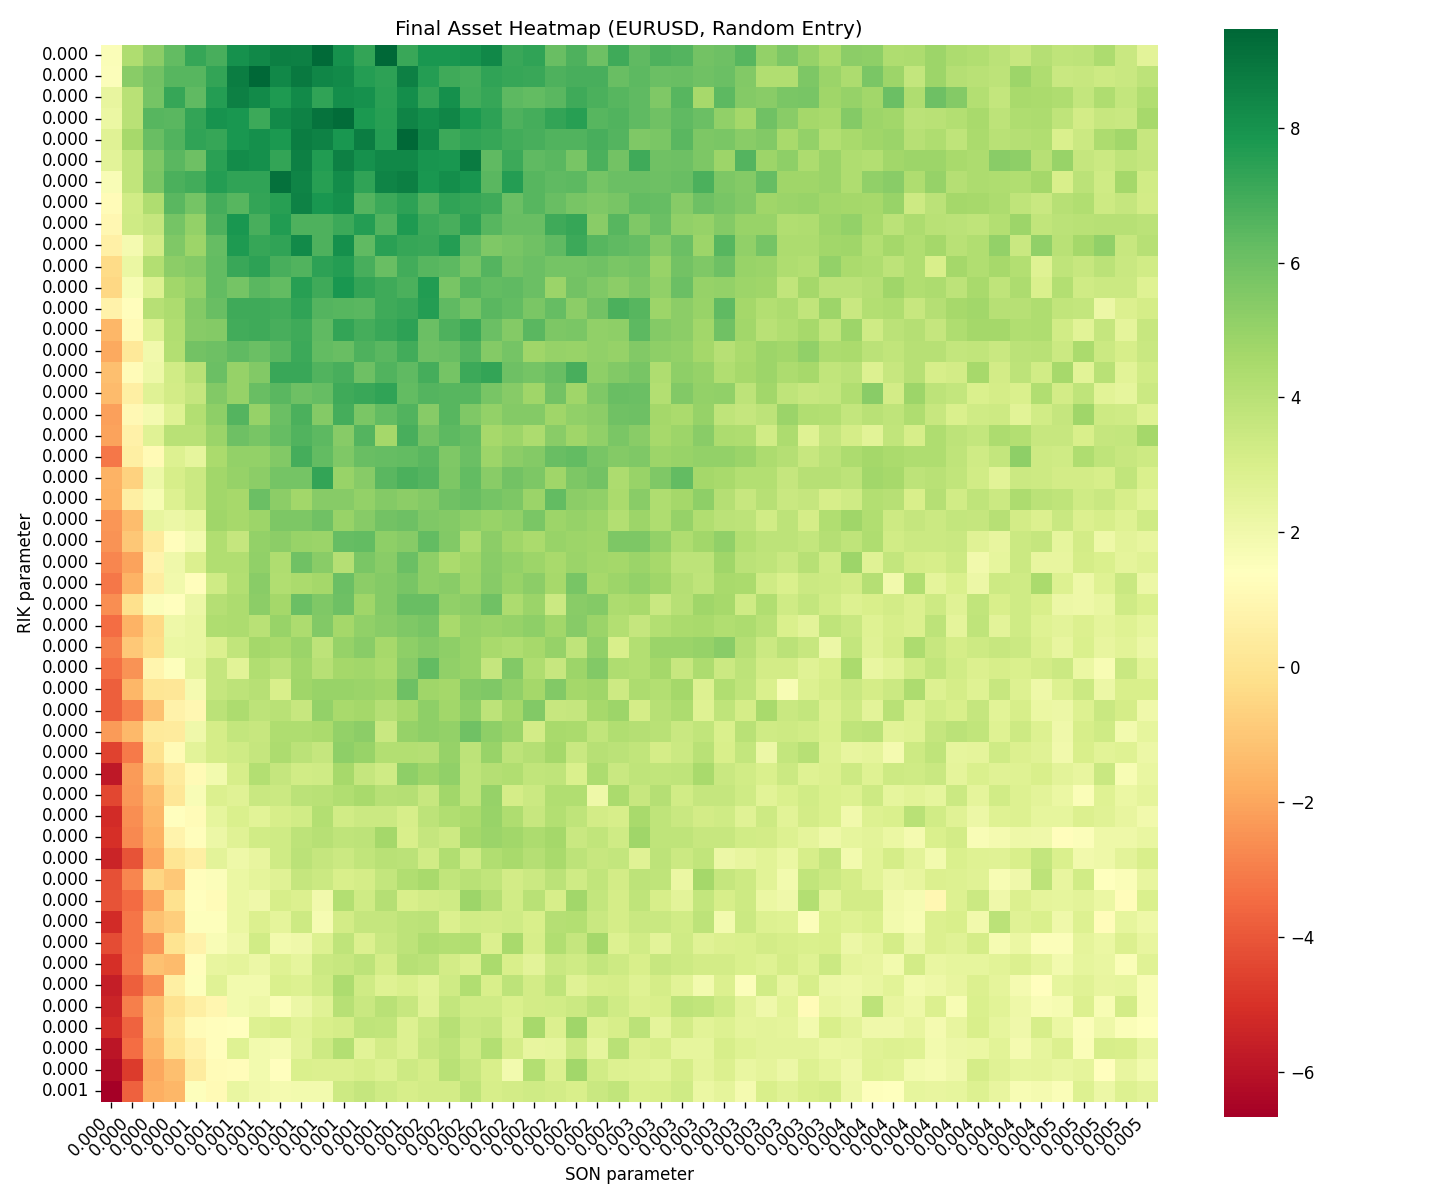
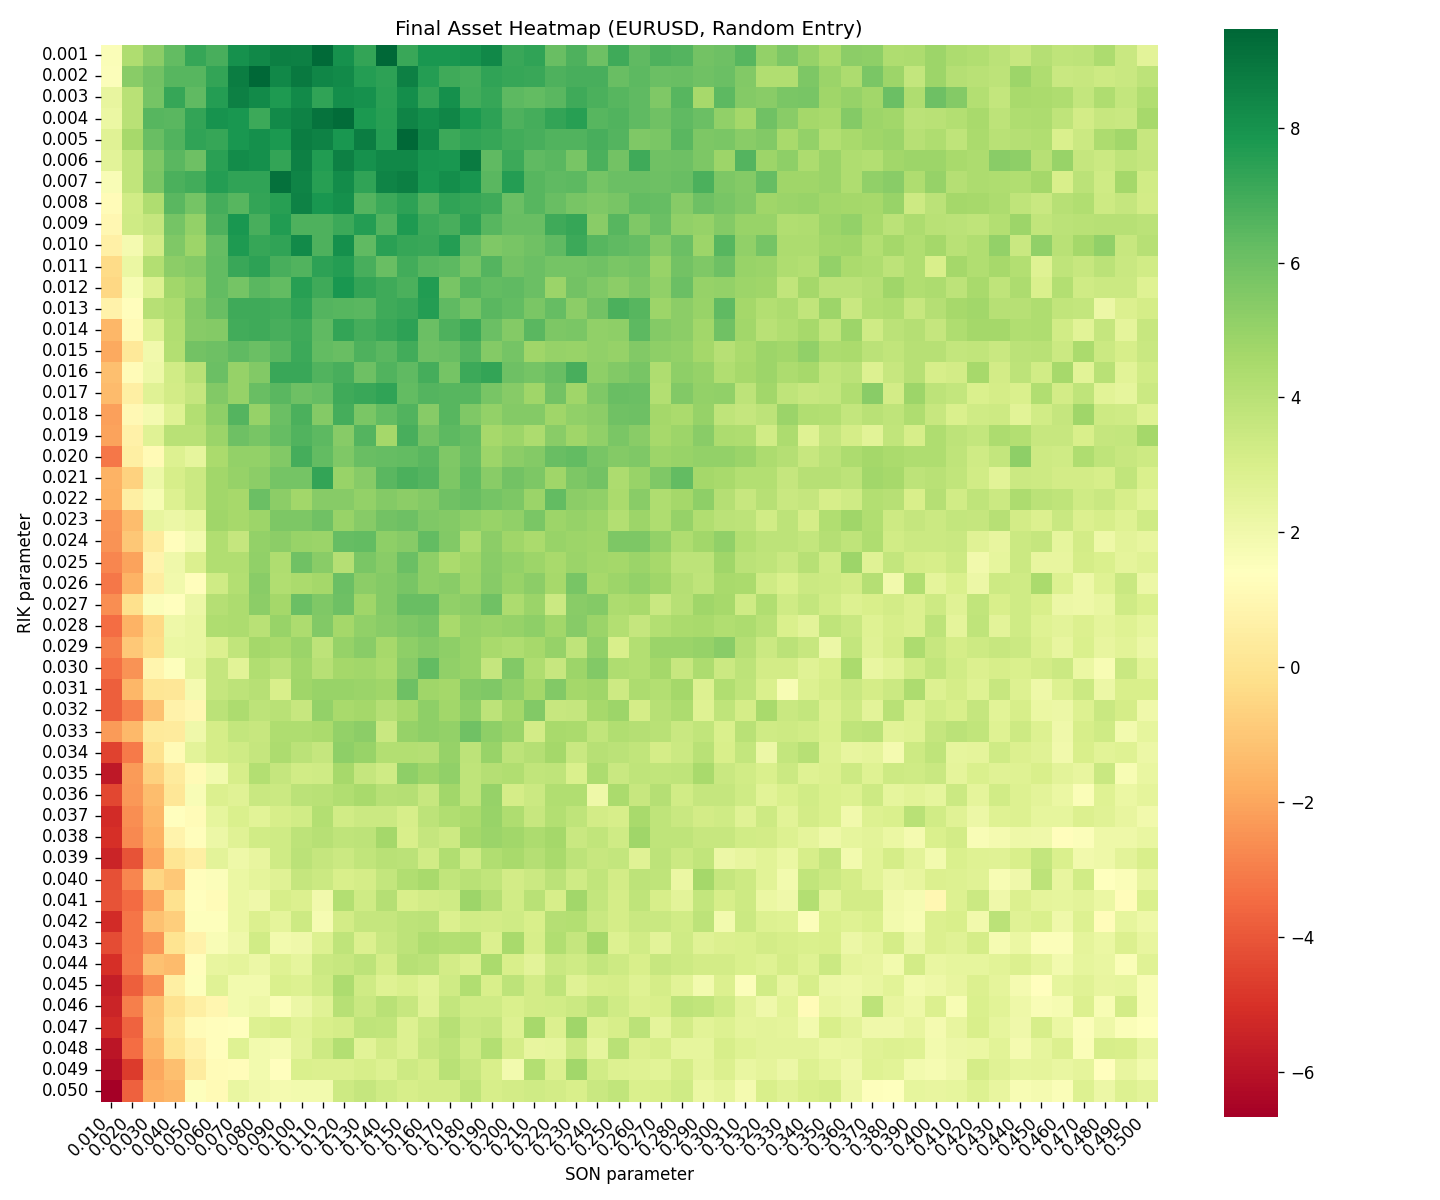
AIモデルシミュレーション実行。たぶん30_10, 0.004/100. 0.13/100 がよい

Changed region(s): [[0.0625, 0.925, 0.7812, 0.9558], [0.0312, 0.2158, 0.0625, 0.925]]

diff --git a/simulate_with_ai.py b/simulate_with_ai.py
@@ -1,6 +1,6 @@
 # simulate_with_ai.py
 """
-AIモデル（weightsファイル）を用いてエントリー方向を決定し、
+AIモデル(weightsファイル)を用いてエントリー方向を決定し、
 利確/損切り (rik, son) を指定してシミュレーションを行うスクリプト。
 
 全ステップでポジションを判定し、資産を更新し、ステップごとにログを保存。
@@ -16,10 +16,15 @@ import argparse
 import os
 import csv
 import numpy as np
-import pandas as pd
 import tensorflow as tf
 from modules.data_loader import load_csv_data
 from modules.models import build_simple_affine_model  # 例としてAffineモデル構造を使用
+
+# 必要な分だけGPUメモリを確保する
+gpus = tf.config.list_physical_devices('GPU')
+if gpus:
+    for gpu in gpus:
+        tf.config.experimental.set_memory_growth(gpu, True)
 
 
 def main():
@@ -76,7 +81,7 @@ def main():
 
     for step_i, price in enumerate(prices_arr):
         # 進捗をprint (例: 10000ステップあるうち毎1000ステップで状況を表示)
-        if step_i % 100000 == 0:
+        if step_i % 10000 == 0:
             print(
                 f"  Step {step_i}/{len(prices_arr)} ... Current asset={asset:.4f}")
 
@@ -101,11 +106,20 @@ def main():
 
         # pos=0 かつ price_bufferが十分たまっていれば、AI判定でエントリー
         if pos == 0 and len(price_buffer) == k:
-            # モデルの入力は (1, k) 形状
-            data_in = np.array(price_buffer, dtype=np.float32).reshape(1, k)
+            # ---- ここでMin-Max正規化を行う ----
+            buffer_array = np.array(price_buffer, dtype=np.float32)
+            min_val = buffer_array.min()
+            max_val = buffer_array.max()
+
+            scaled_array = (buffer_array - min_val) / \
+                (max_val - min_val + 1e-8)
+
+            # モデルの入力は (1, k) 形
+            data_in = scaled_array.reshape(1, k)
             pred = model(data_in, training=False).numpy()  # shape=(1,2)
+
             # pred[0,0] => "上がる"の確率, pred[0,1] => "下がる"の確率
-            if pred[0, 0] > pred[0, 1]:
+            if pred[0][0] > 0.5:
                 pos = 1
             else:
                 pos = -1
@@ -121,7 +135,7 @@ def main():
     # 4) ログの書き込み
     out_dir = f"simulator_results/{pair}_AI_logs"
     os.makedirs(out_dir, exist_ok=True)
-    log_name = f"log_ai_k{k}_rik{rik:.4f}_son{son:.4f}.csv"
+    log_name = f"log_ai_k{k}_rik{rik:.6f}_son{son:.6f}.csv"
     log_path = os.path.join(out_dir, log_name)
     print(f"[INFO] Saving step-by-step asset log to {log_path}")
 

diff --git a/simulate.py b/simulate.py
@@ -46,9 +46,9 @@ def main(pair):
     # 軸ラベルをパラメータ値に
     ax.set_xticks(np.arange(len(son_values)) + 0.5)
     ax.set_yticks(np.arange(len(rik_values)) + 0.5)
-    ax.set_xticklabels([f"{v:.3f}" for v in son_values],
+    ax.set_xticklabels([f"{v*100:.3f}" for v in son_values],
                        rotation=45, ha="right")
-    ax.set_yticklabels([f"{v:.3f}" for v in rik_values], rotation=0)
+    ax.set_yticklabels([f"{v*100:.3f}" for v in rik_values], rotation=0)
 
     heatmap_path = f"simulator_results/{pair}/heatmap_{pair}.png"
     plt.tight_layout()

diff --git a/README.md b/README.md
@@ -1,144 +1,71 @@
 # liza_trainer
 
-為替の1分足CSVデータを用いて、以下の2つを行うプロジェクトです:
+為替の1分足CSVデータを用いて、以下の作業を行うプロジェクトです:
 
-1. **学習 (train.py)**  
-   過去の価格から、指定した先の価格が上昇か下降かを推定する2値分類モデルを学習する。  
-   バリデーションロスが改善しなければ一部重みをランダム初期化して局所解を回避し、一定エポック改善しなければ早期終了する仕組みを備えている。  
-   学習完了後は `results/<通貨ペア>/<モデル名>_<日時>/best_model_weights.h5` に最良モデルが保存される。
+## 1. 学習 (train.py)
 
-2. **シミュレーション (simulate.py)**  
-   ランダムエントリーと利確・損切り(複数パラメータ)のバックテストシミュレーションを並列で行う。  
-   最終資産をヒートマップにまとめ、 `simulator_results/<通貨ペア>/heatmap_<通貨ペア>.png` として出力する。  
+### 概要
+- 過去の価格 (`k` ステップ) と、指定した先 (`future_k` ステップ) の価格上昇・下降を2値分類として学習。
+- 学習ロジックは `modules/trainer.py` の `Trainer` クラスが管理。
+- バリデーション損失が改善しなくなった際、一部重みをランダム初期化して局所解回避。
+- 一定エポック改善しなければ早期終了。
+- 学習完了後、最良のモデル重みが `results/<通貨ペア>/<モデル種別>_k<k>_f<future_k>_<日時>/best_model_weights.h5` に保存。
 
-### コンセプト
-
-このプロジェクトのアルゴリズム設計は、以下のコンセプトに基づいています:
-
-- **「最悪AIがポンコツでも勝てる」**: ランダムエントリーでも勝てるアルゴリズムを構築することを第一目標とし、
-  利確・損切りのロジックによって安定した利益を追求します。
-- その上で、ニューラルネットワーク(NNモデル)を用いてさらに精度を高めることを目指します。
-- このアプローチにより、AIモデルの予測精度に完全に依存しない堅牢なシステムを実現します。
-
----
-
-## ディレクトリ構成
-
-```
-liza_trainer
-├── train.py          // 学習用のメインスクリプト
-├── simulate.py       // シミュレーション用のメインスクリプト
-├── data
-│   ├── sample_EURUSD_1m.csv
-│   └── sample_USDJPY_1m.csv
-├── modules
-│   ├── data_loader.py
-│   ├── dataset.py
-│   ├── models.py
-│   ├── trainer.py
-│   └── simulate_core.py
-├── results
-│   ├── EURUSD
-│   └── USDJPY
-└── simulator_results
-    ├── EURUSD
-    └── USDJPY
-```
-
----
-
-## 学習 (train.py)
-
-- `train.py` では、以下の処理を行う:
-  1. 指定した通貨ペア（`EURUSD`または`USDJPY`）のCSV (`data/sample_<pair>_1m.csv`) を読み込み。
-  2. `modules/dataset.py` の `create_dataset()` で `(train_x, train_y), (valid_x, valid_y), (test_x, test_y)` を作成。
-  3. 全結合モデル (`build_simple_affine_model`) などを構築。
-  4. `trainer.py` の `Trainer` クラスを使い、エポックごとにバリデーションを確認。  
-     - 改善しなければ一部重みをランダムに初期化し、局所解を回避。  
-     - 一定エポック改善が無ければ早期終了。  
-  5. テストセット評価が最良のモデルを `results/<pair>/<モデル>_<日時>/best_model_weights.h5` に保存。
-
-### 実行手順
-
-1. CSVファイルを `data/sample_USDJPY_1m.csv` や `data/sample_EURUSD_1m.csv` として配置。  
-2. `train.py` の `main()` 内で `pair` を指定。  
-3. 下記のように実行すると学習が走り、最終的なモデル重みとパラメータログが保存される。  
-
+### 実行方法
 ```bash
 python train.py
 ```
+- 指定した通貨ペア (`EURUSD` / `USDJPY`) に対して、
+- `k` (30, 60, 90, 120, 150, 180) と `future_k` の組み合わせを試行。
+- 結果は `results/<pair>/training_info.txt` に保存。
 
-- 出力結果:
-  - `results/<pair>/<モデル>_<日時>/best_model_weights.h5`
-  - `training_info.txt` (学習結果やパラメータ)
+## 2. ランダムエントリーシミュレーション (simulate.py)
 
----
+### 概要
+- ランダムエントリーに基づいて利確 (`rik`)、損切り (`son`) を試行。
+- 並列処理を用いて複数パラメータのバックテストを実行。
+- 最終資産を `heatmap_<pair>.png` にヒートマップとして保存。
+- 結果は `simulator_results/<pair>/logs/log_rikX_sonY.csv` に記録。
 
-## シミュレーション (simulate.py)
-
-`simulate.py` は、ランダムエントリー + 利確(rik)・損切り(son)の複数パラメータに対するバックテストを行う。
-
-- データを複数チャンクに分割し、`multiprocessing.Pool` を用いて並列にシミュレート。
-- チャンクを連結し、最終的な資産を集計。
-- 組み合わせごとの最終資産を 2次元配列に格納し、ヒートマップで可視化。
-
-### 実行手順
-
-1. 同様に `data/sample_<pair>_1m.csv` を配置 (EURUSD または USDJPY)。
-2. `simulate.py` を実行時に `--pair` オプションで通貨ペアを指定:
-
+### 実行方法
 ```bash
-python simulate.py --pair EURUSD
+python simulate.py
+```
+- `pair` の指定は `simulate.py` 内の `main()` にて。
+- `rik`, `son` の範囲やステップは `np.linspace` で指定。
+
+## 3. AIモデルを用いたシミュレーション (simulate_with_ai.py)
+
+### 概要
+- 学習済みモデル (`best_model_weights.h5`) を使用。
+- AIの予測に基づき、LONG または SHORT でエントリー。
+- 各ステップで利確 (`rik`)、損切り (`son`) を判定。
+- 結果は `simulator_results/<pair>/AI_logs/` に保存。
+
+### 実行方法
+```bash
+python simulate_with_ai.py --pair EURUSD \
+    --weights results/EURUSD/Affine_k30_f5_20250126-230851/best_model_weights.h5 \
+    --k 30 \
+    --rik 0.001 \
+    --son 0.01
 ```
 
-- 出力結果:
-  - `simulator_results/<pair>/logs/` (パラメータ別のCSVログ)
-  - `simulator_results/<pair>/heatmap_<pair>.png` (最終資産のヒートマップ)
+## 4. サマリーツール (modules/summary.py)
 
----
+### 概要
+- 学習結果 (`training_info.txt`) から `k, future_k, Best Test Loss, Best Test Acc` などを集計。
+- `summary_EURUSD.csv`、`summary_USDJPY.csv` にまとめる。
 
-## 必要環境
+### 実行方法
+```bash
+python modules/summary.py
+```
 
-- Python 3系
-- TensorFlow 2系 (GPU利用可)
-- NumPy
-- pandas
-- matplotlib
-- seaborn
-
----
-
-## 各ファイルの役割
-
-- **train.py**  
-  学習のメインスクリプト。適宜 `pair` (`EURUSD` / `USDJPY`) を選択し、学習を実行。
-
-- **simulate.py**  
-  シミュレーションのメインスクリプト。`--pair` オプションで通貨ペアを選択し、ヒートマップを出力。
-
-- **data_loader.py**  
-  CSVを読み込み、`timestamp` と `price` のリストを返す。
-
-- **dataset.py**  
-  `(train_x, train_y, valid_x, valid_y, test_x, test_y)` を生成する。ラベルを2値分類形式で作成。
-
-- **models.py**  
-  全結合ネットワーク (`build_simple_affine_model`) や Transformer (`build_transformer_model`) などのモデル定義。
-
-- **trainer.py**  
-  バリデーションロスが改善しなければ重みの一部を初期化して局所解回避、一定エポック改善無ければ早期終了し、
-  複数回試行 (`num_repeats`) して最良を保存する仕組み。
-
-- **simulate_core.py**  
-  `multiprocessing.Pool` を使ってチャンクごとにランダムエントリーシミュレーションを並列実行し、資産を合算する。
-  `(rik, son)` のパラメータを網羅的に走査し、最終資産をヒートマップ行列にまとめる。
-
----
-
-## 注意点
-
-- CSVのカラムは `timestamp, price` のみ。
-- GPUメモリを必要分だけ確保するため、`tf.config.experimental.set_memory_growth` を使用。
-- 価格データは1分足想定だが、行数の制約は特にない。
-- 同じペアで複数回の学習/シミュレーションを行うと、日時つきのフォルダが都度生成され、結果が混ざらない。
+## 補足
+- **学習時の正規化**: `dataset.py` にて「各サンプルごとに Min-Max 正規化」。
+- **推論時の正規化**: `simulate_with_ai.py` にて「各ステップで過去 `k` 個の価格に対し Min-Max を計算し正規化」。
+- **モデルの保存・読み込み**:
+  - `model.save_weights(...)` で保存。
+  - `build_simple_affine_model` でネットワークを再生成し、`load_weights(...)` で読み込み。
 
